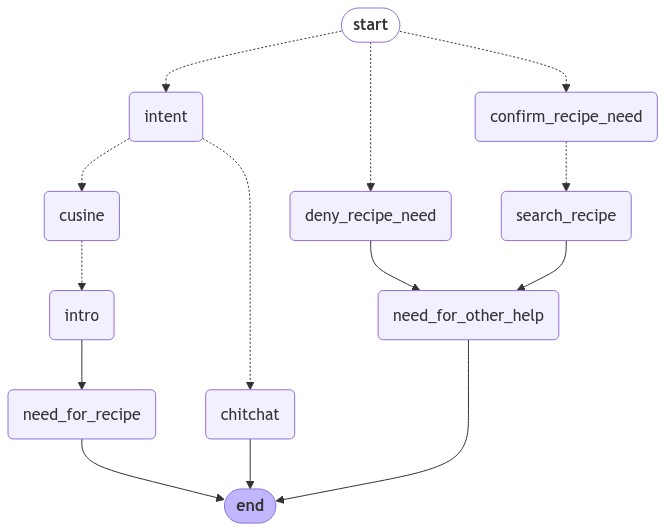
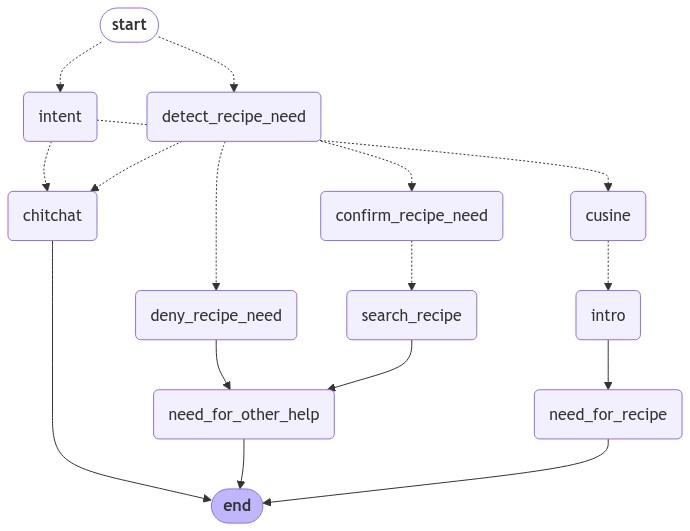
add detect recipe need node; add it to the graph

diff --git a/graph.py b/graph.py
@@ -1,8 +1,6 @@
 import uuid
 from langchain_core.messages import HumanMessage, AIMessage
 from langgraph.checkpoint.memory import MemorySaver
-
-# from langgraph.checkpoint.sqlite import SqliteSaver
 from langgraph.graph import START, StateGraph, END
 from langgraph.constants import Send
 
@@ -16,6 +14,7 @@ from src.chains.chains import (
     need_for_recipe_chain,
     need_for_other_help_chain,
     write_recipe_chain,
+    detect_recipe_need_chain,
     chains_config,
 )
 from src.helpers.helpers import visualise_runnable
@@ -161,18 +160,26 @@ def search_recipe(state: CusineState):
 # conditional edges logic
 def entry_point_router(state: OverallState):
     print("--- Entry Point Router ---")
-    if "messages" in state:
-        last_message = state["messages"][-1].content
-        # TODO last_message_meaning
     if "last_node" not in state:
         return "intent"
     elif state["last_node"] == "need_for_recipe":
-        if last_message == "no":
-            return "deny_recipe_need"
-        elif last_message == "yes":
-            return "confirm_recipe_need"
+        return "detect_recipe_need"
     else:
         return "intent"
+
+
+def detect_recipe_need(state: OverallState):
+    print("--- Detect Recipe Need ---")
+    if "messages" in state:
+        last_message = state["messages"][-1].content
+        # last_conversation = state["messages"][-3:-1]
+    response = detect_recipe_need_chain.invoke(
+        {
+            "answer": last_message,
+            # "last_message": last_conversation,
+        }
+    )
+    return {"recipe_need": response.content}
 
 
 def intent_router(state: OverallState):
@@ -181,6 +188,17 @@ def intent_router(state: OverallState):
     if about_cusine:
         return "cusine"
     else:
+        return "chitchat"
+
+
+def recipe_need_router(state: OverallState):
+    print("--- Recipe Need Router ---")
+    recipe_need = state["recipe_need"]
+    if recipe_need == "no":
+        return "deny_recipe_need"
+    elif recipe_need == "yes":
+        return "confirm_recipe_need"
+    elif recipe_need == "others":
         return "chitchat"
 
 
@@ -203,9 +221,11 @@ workflow.add_node("chitchat", chitchat)
 workflow.add_node("cusine", cusine)
 workflow.add_node("intro", intro)
 workflow.add_node("need_for_recipe", need_for_recipe)
+workflow.add_node("detect_recipe_need", detect_recipe_need)
+workflow.add_node("confirm_recipe_need", confirm_recipe_need)
 workflow.add_node("deny_recipe_need", deny_recipe_need)
 workflow.add_node("need_for_other_help", need_for_other_help)
-workflow.add_node("confirm_recipe_need", confirm_recipe_need)
+
 workflow.add_node("search_recipe", search_recipe)
 
 
@@ -215,14 +235,22 @@ workflow.set_conditional_entry_point(
     entry_point_router,
     {
         "intent": "intent",
-        "deny_recipe_need": "deny_recipe_need",
-        "confirm_recipe_need": "confirm_recipe_need",
+        "detect_recipe_need": "detect_recipe_need",
     },
 )
 workflow.add_conditional_edges(
     "intent",
     intent_router,
     {"cusine": "cusine", "chitchat": "chitchat"},
+)
+workflow.add_conditional_edges(
+    "detect_recipe_need",
+    recipe_need_router,
+    {
+        "confirm_recipe_need": "confirm_recipe_need",
+        "deny_recipe_need": "deny_recipe_need",
+        "chitchat": "chitchat",
+    },
 )
 workflow.add_edge("chitchat", END)
 workflow.add_conditional_edges("cusine", map_to_intro, ["intro"])

diff --git a/src/prompts/chat_templates.py b/src/prompts/chat_templates.py
@@ -3,6 +3,7 @@ from langchain_core.prompts import ChatPromptTemplate, MessagesPlaceholder
 from src.prompts.prompts import (
     INTENT_INSTRUCTION,
     INTENT_PROMPT,
+    CHITCHAT_INSTRUCTION,
     CHITCHAT_PROMPT,
     CUSINE_INSTRUCTION,
     CUSINE_PROMPT,
@@ -14,8 +15,14 @@ from src.prompts.prompts import (
     NEED_FOR_OTHER_HELP_PROMPT,
     WRITE_RECIPE_INSTRUCTION,
     WRITE_RECIPE_PROMPT,
+    DETECT_RECIPE_NEED_INSTRUCTION,
+    DETECT_RECIPE_NEED_PROMPT,
 )
-from src.prompts.few_shots import intent_examples, cusine_examples
+from src.prompts.few_shots import (
+    intent_examples,
+    cusine_examples,
+    detect_recipe_need_examples,
+)
 from src.utils.utils import read_yaml
 
 # Load config from setting.toml
@@ -35,6 +42,7 @@ intent_template = ChatPromptTemplate.from_messages(
 
 chitchat_template = ChatPromptTemplate.from_messages(
     [
+        ("system", CHITCHAT_INSTRUCTION),
         MessagesPlaceholder(variable_name="messages"),
         ("user", CHITCHAT_PROMPT),
     ]
@@ -73,5 +81,14 @@ write_recipe_template = ChatPromptTemplate.from_messages(
     [
         ("system", WRITE_RECIPE_INSTRUCTION),
         ("user", WRITE_RECIPE_PROMPT),
+    ]
+)
+
+detect_recipe_need_template = ChatPromptTemplate.from_messages(
+    [
+        ("system", DETECT_RECIPE_NEED_INSTRUCTION),
+        *detect_recipe_need_examples,
+        # MessagesPlaceholder(variable_name="last_message"),
+        ("user", DETECT_RECIPE_NEED_PROMPT),
     ]
 )

diff --git a/src/chains/chains.py b/src/chains/chains.py
@@ -6,6 +6,7 @@ from src.prompts.chat_templates import (
     need_for_recipe_template,
     need_for_other_help_template,
     write_recipe_template,
+    detect_recipe_need_template,
 )
 from src.utils.utils import read_yaml
 from src.helpers.helpers import define_llm
@@ -22,6 +23,7 @@ intro_config = chains_config["intro"]
 need_for_recipe_config = chains_config["need_for_recipe"]
 need_for_other_help_config = chains_config["need_for_other_help"]
 write_recipe_config = chains_config["write_recipe"]
+detect_recipe_need_config = chains_config["detect_recipe_need"]
 
 # Define the LLM for cusine_chain
 intent_llm = define_llm(intent_config)
@@ -31,6 +33,7 @@ intro_llm = define_llm(intro_config)
 need_for_recipe_llm = define_llm(need_for_recipe_config)
 need_for_other_help_llm = define_llm(need_for_other_help_config)
 write_recipe_llm = define_llm(write_recipe_config)
+detect_recipe_need_llm = define_llm(detect_recipe_need_config)
 
 # Define intent chain
 intent_chain = intent_template | intent_llm
@@ -52,3 +55,6 @@ need_for_other_help_chain = need_for_other_help_template | need_for_other_help_l
 
 # Define recipe chain
 write_recipe_chain = write_recipe_template | write_recipe_llm
+
+# Define recipe chain
+detect_recipe_need_chain = detect_recipe_need_template | detect_recipe_need_llm

diff --git a/src/prompts/few_shots.py b/src/prompts/few_shots.py
@@ -1,7 +1,11 @@
 import random
 from langchain_core.messages import HumanMessage, AIMessage
 
-from src.prompts.prompts import INTENT_PROMPT, CUSINE_PROMPT
+from src.prompts.prompts import (
+    INTENT_PROMPT,
+    CUSINE_PROMPT,
+    DETECT_RECIPE_NEED_PROMPT,
+)
 from src.utils.utils import read_yaml
 
 # Load config from setting.toml
@@ -39,4 +43,13 @@ cusine_examples = [
         ),
     ),
     AIMessage(content=str(cusine_samples)),
+]
+
+detect_recipe_need_examples = [
+    HumanMessage(content="好呀"),
+    AIMessage(content="yes"),
+    HumanMessage(content="唔駛"),
+    AIMessage(content="no"),
+    HumanMessage(content="今日天氣點呀？"),
+    AIMessage(content="others"),
 ]

diff --git a/src/state/state.py b/src/state/state.py
@@ -6,6 +6,7 @@ from langchain_core.messages import BaseMessage
 class OverallState(TypedDict):
     question: str
     about_cusine: bool
+    recipe_need: str
     extra_requirements: List[str]
     cusine_choices: List[str]
     cusine_intro: Annotated[List[dict], operator.add]
